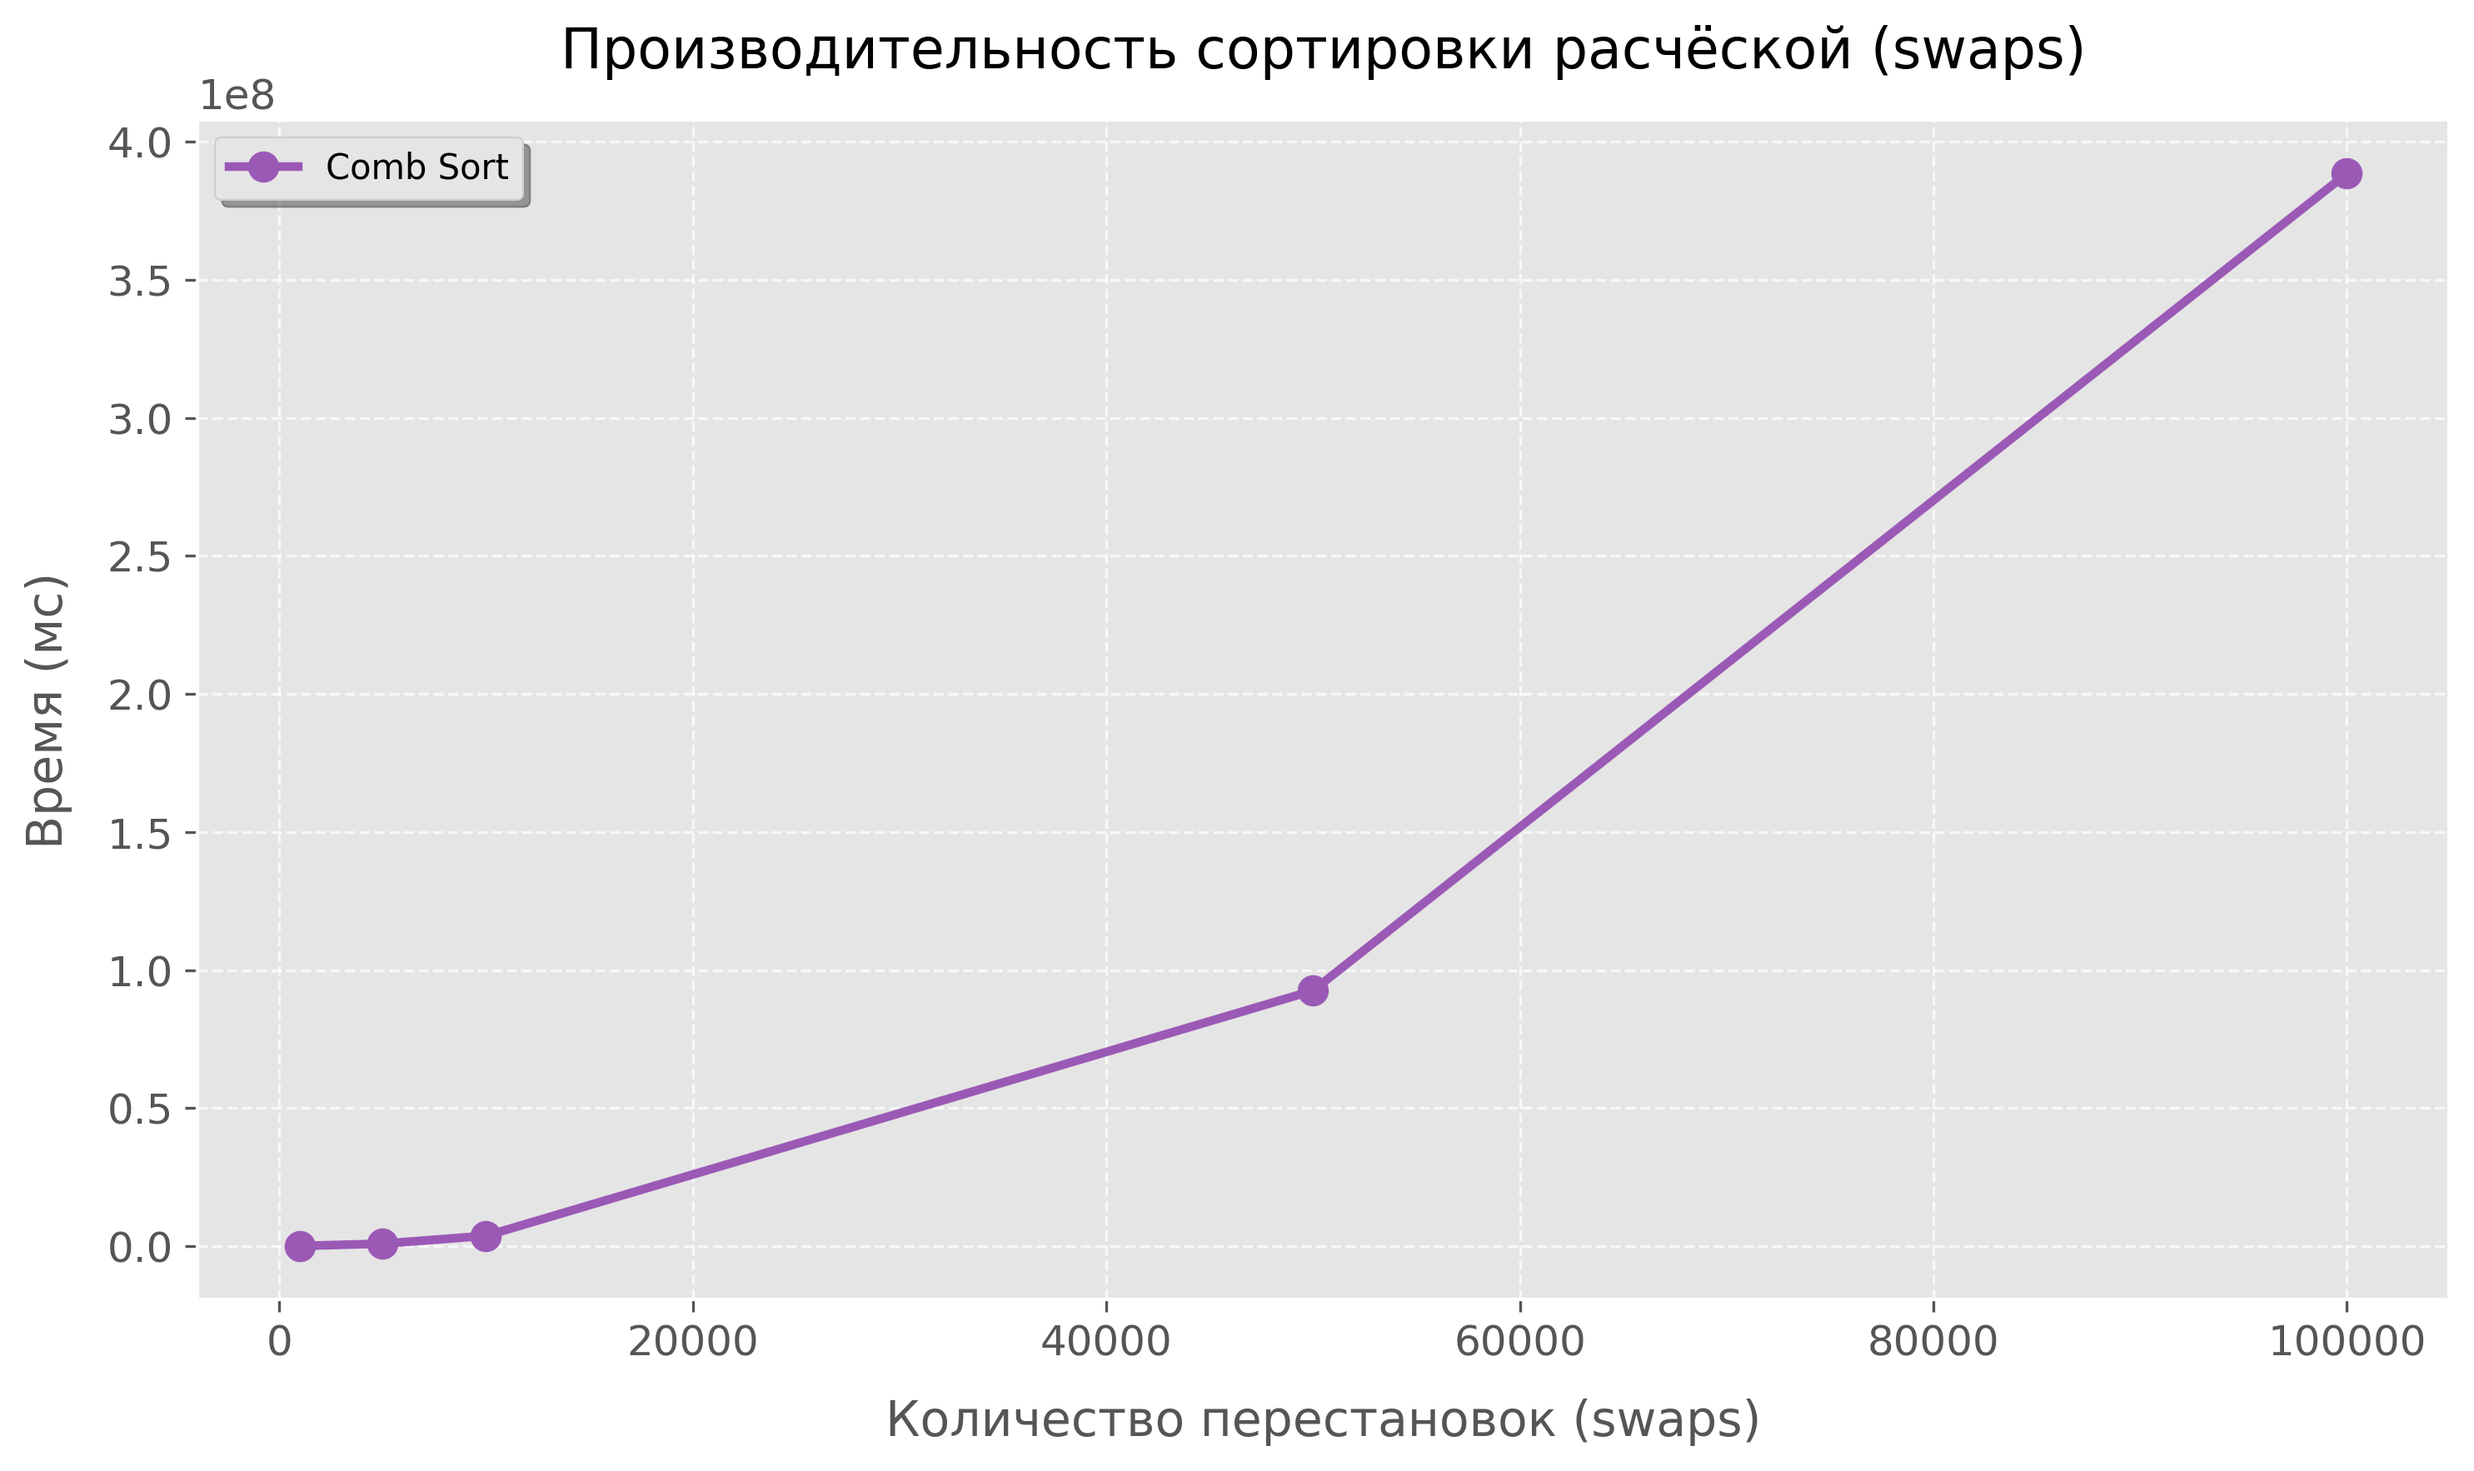
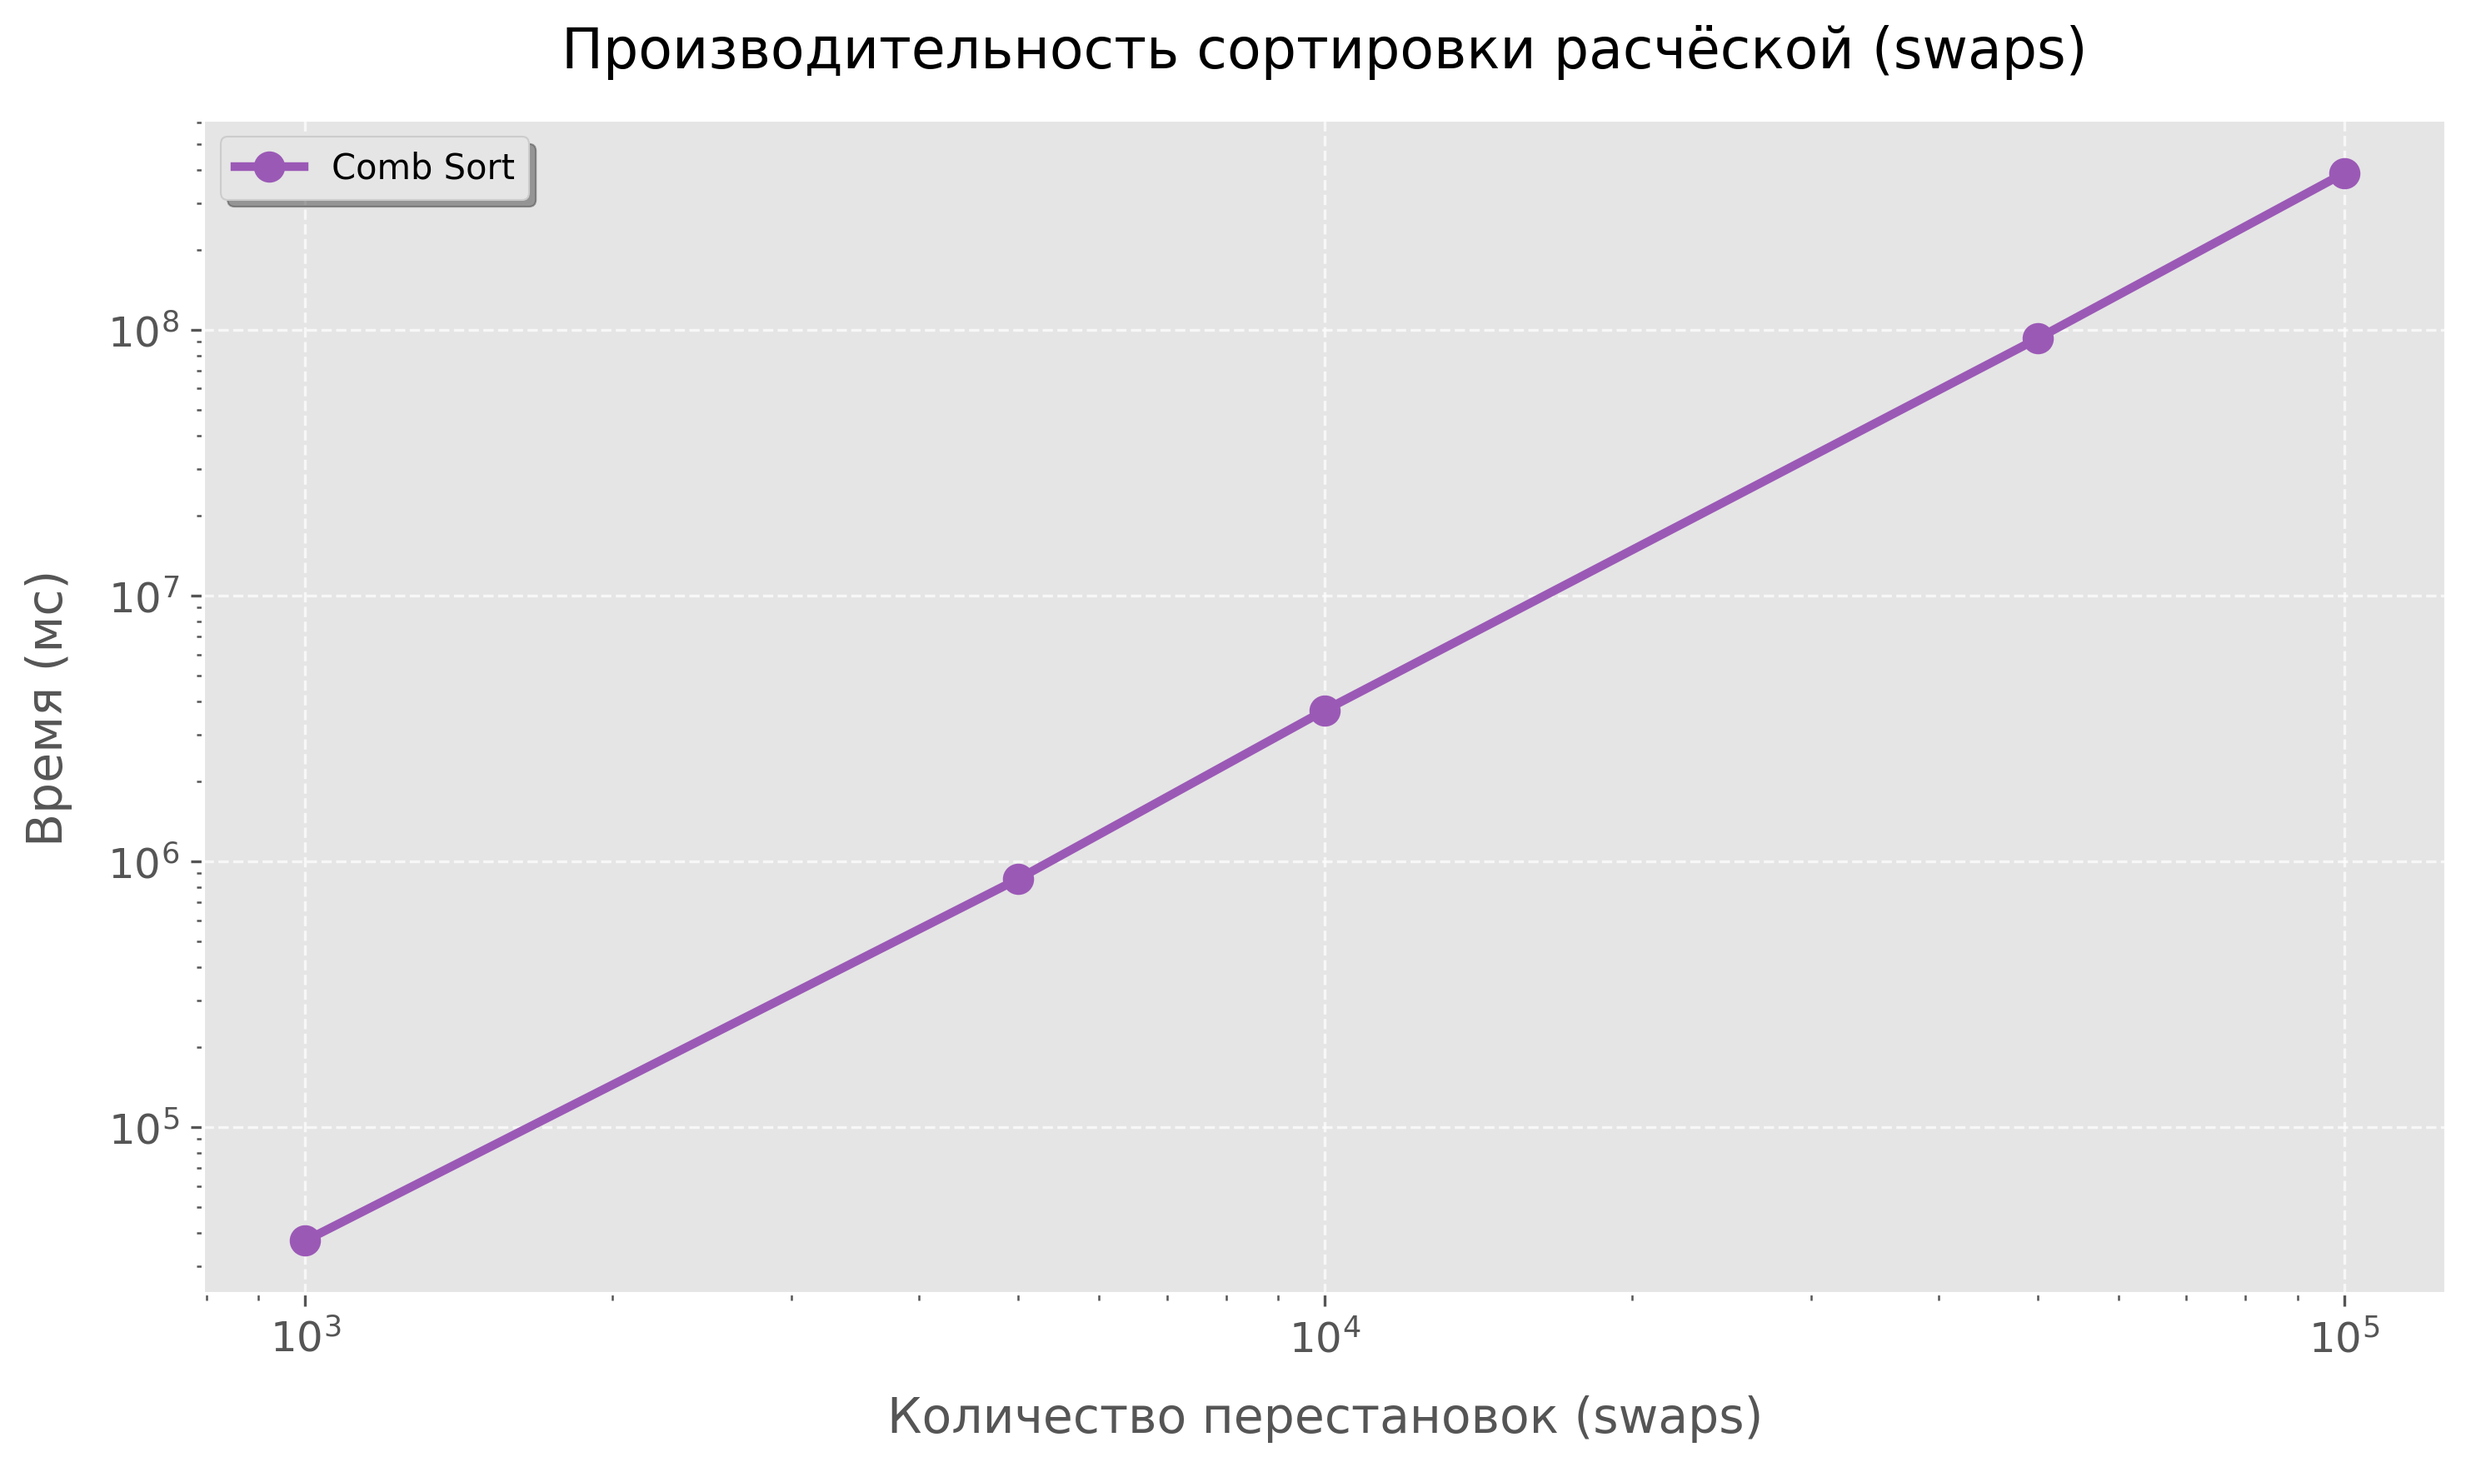
push

diff --git a/laba_3/cpp/main.cpp b/laba_3/cpp/main.cpp
@@ -20,11 +20,29 @@ float* linspace(float start, float end, int size) {
     return f;
 }
 
+double* d_linspace(double start, double end, int size) {
+    double* f = new double[size--];
+    for (int i = 0; i <= size; ++i) {
+        f[i] = start + (end - start) * (1.f * i / size);
+    }
+    return f;
+}
+
 float* Maxwell_distribution(float T, float start, float stop, unsigned size) {
     float *distr = new float[size--];
     for (unsigned i = 0; i <= size; i++)
     {
         float v = start + (stop - start) * (1.f * i / size);
+        distr[i] = exp(0 - v*v / T) / sqrt(T*M_PI);
+    }
+    return distr;
+}
+
+double* d_Maxwell_distribution(double T, double start, double stop, unsigned size) {
+    double *distr = new double[size--];
+    for (unsigned i = 0; i <= size; i++)
+    {
+        double v = start + (stop - start) * (1.f * i / size);
         distr[i] = exp(0 - v*v / T) / sqrt(T*M_PI);
     }
     return distr;
@@ -92,7 +110,7 @@ float fma_mean(float const *psi, float const *pdf, float const dv, unsigned size
     return sum;
 }
 
-double d_mean(float const *psi, float const *pdf, float const dv, unsigned size) {
+double d_mean(double const *psi, double const *pdf, double const dv, unsigned size) {
     double sum = 0.;
     double c = 0.;
     for (unsigned i = 0; i != size; i++)
@@ -136,18 +154,31 @@ void write_experiment_results() {
     auto execute_test = [&](float T, unsigned size) {
         float bound = 5.0f * std::sqrt(T); 
         float dv = (2.0f * bound) / (size - 1);
+        
+        double d_bound = 5.0f * std::sqrt(T); 
+        double d_dv = (2.0f * d_bound) / (size - 1);
 
         float* psi = Maxwell_distribution(T, -bound, bound, size);
         float* pdf_abs_v = linspace(-bound, bound, size);
         float* pdf_v2 = new float[size];
 
+        double* d_psi = d_Maxwell_distribution(T, -d_bound, d_bound, size);
+        double* d_pdf_abs_v = d_linspace(-d_bound, d_bound, size);
+        double* d_pdf_v2 = new double[size];
+
         for (unsigned i = 0; i < size; i++) {
             if (pdf_abs_v[i] < 0) pdf_abs_v[i] = -pdf_abs_v[i];
             pdf_v2[i] = pdf_abs_v[i] * pdf_abs_v[i];
+
+            if (d_pdf_abs_v[i] < 0) d_pdf_abs_v[i] = -d_pdf_abs_v[i];
+            d_pdf_v2[i] = d_pdf_abs_v[i] * d_pdf_abs_v[i];
         }
 
         double anal_abs_v = std::sqrt(T / M_PI);
         double anal_v2 = T / 2.0;
+
+        std::cout << std::setprecision(16) << anal_abs_v << std::endl
+                  << std::setprecision(16) << anal_v2    << std::endl;
 
         // 1. Recurrent Mean
         record_experiment("Recurrent", T, size, "|v|", recurent_mean(psi, pdf_abs_v, dv, size), anal_abs_v);
@@ -166,8 +197,13 @@ void write_experiment_results() {
         record_experiment("FMA", T, size, "v^2", fma_mean(psi, pdf_v2, dv, size), anal_v2);
 
         // 5. Double Mean
-        record_experiment("Double", T, size, "|v|", d_mean(psi, pdf_abs_v, dv, size), anal_abs_v);
-        record_experiment("Double", T, size, "v^2", d_mean(psi, pdf_v2, dv, size), anal_v2);
+        record_experiment("Double", T, size, "|v|", d_mean(d_psi, d_pdf_abs_v, d_dv, size), anal_abs_v);
+        record_experiment("Double", T, size, "v^2", d_mean(d_psi, d_pdf_v2, d_dv, size), anal_v2);
+
+        
+        delete[] d_psi;
+        delete[] d_pdf_abs_v;
+        delete[] d_pdf_v2;
 
         delete[] psi;
         delete[] pdf_abs_v;

diff --git a/laba_2/python/analyze.py b/laba_2/python/analyze.py
@@ -23,6 +23,9 @@ def run_analysis():
         viz.add_line(shell_df['N'], shell_df['HibbardTime_ms'], label='Hibbard (2^i - 1)', color='#e74c3c', marker='s')
         viz.add_line(shell_df['N'], shell_df['FiboTime_ms'], label='Fibonacci', color='#2ecc71', marker='^')
         
+        viz.ax.set_xscale('log')
+        viz.ax.set_yscale('log')
+        
         viz.set_labels(
             title="Сравнение времени работы: Сортировка Шелла",
             xlabel="Количество элементов (N)",
@@ -35,6 +38,9 @@ def run_analysis():
         viz.add_line(shell_df['N'], shell_df['ShellSwaps'], label='Classic', color='#3498db')
         viz.add_line(shell_df['N'], shell_df['HibbardSwaps'], label='Hibbard', color='#e74c3c', marker='s')
         viz.add_line(shell_df['N'], shell_df['FiboSwaps'], label='Fibonacci', color='#2ecc71', marker='^')
+                
+        viz.ax.set_xscale('log')
+        viz.ax.set_yscale('log')
         
         viz.set_labels(
             title="Сравнение перестановок: Сортировка Шелла",
@@ -53,6 +59,9 @@ def run_analysis():
         viz.create_plot()
         viz.add_line(comb_df['N'], comb_df['CombTime_ms'], label='Comb Sort', color='#9b59b6')
         
+        viz.ax.set_xscale('log')
+        viz.ax.set_yscale('log')
+        
         viz.set_labels(
             title="Производительность сортировки расчёской (N)",
             xlabel="Количество элементов (N)",
@@ -63,6 +72,9 @@ def run_analysis():
         viz.create_plot()
         viz.add_line(comb_df['N'], comb_df['CombSteps'], label='Comb Sort', color='#9b59b6')
         
+        viz.ax.set_xscale('log')
+        viz.ax.set_yscale('log')
+
         viz.set_labels(
             title="Производительность сортировки расчёской (swaps)",
             xlabel="Количество перестановок (swaps)",
@@ -94,6 +106,9 @@ def run_analysis():
         viz.add_line(comb_df['N'], comb_df['BackwardTime_ms'], label='Shaker Sort', color='#e74c3c')
         viz.add_line(comb_df['N'], comb_df['ShakerTime_ms'], label='Shaker Sort', color='#2ecc71')
         
+        viz.ax.set_xscale('log')
+        viz.ax.set_yscale('log')
+
         viz.set_labels(
             title="Производительность шейкерной сортировки",
             xlabel="Количество элементов (N)",

diff --git a/laba_3/python/analyze.py b/laba_3/python/analyze.py
@@ -74,7 +74,6 @@ def run_analysis():
     # Диаграмма для |v|
     subset = df[(df['Variable'] == '|v|') & (df['N_points'] == 350)].copy()
     
-    # Создаем уникальную метку для оси X (так как N фиксировано, выводим только T)
     subset['Label'] = subset.apply(lambda r: f"T={r['T']}", axis=1)
     
     methods = subset['Method'].unique()
@@ -85,7 +84,7 @@ def run_analysis():
     x = np.arange(len(labels))
     width = 0.15
     
-    
+    viz.ax.set_yscale('log')
     for i, method in enumerate(methods):
         method_data = subset[subset['Method'] == method]
         
@@ -111,7 +110,6 @@ def run_analysis():
 
     subset = df[(df['Variable'] == 'v^2') & (df['N_points'] == 350)].copy()
     
-    # Создаем уникальную метку для оси X (так как N фиксировано, выводим только T)
     subset['Label'] = subset.apply(lambda r: f"T={r['T']}", axis=1)
     
     methods = subset['Method'].unique()
@@ -122,7 +120,7 @@ def run_analysis():
     x = np.arange(len(labels))
     width = 0.15
     
-    
+    viz.ax.set_yscale('log')
     for i, method in enumerate(methods):
         method_data = subset[subset['Method'] == method]
         
